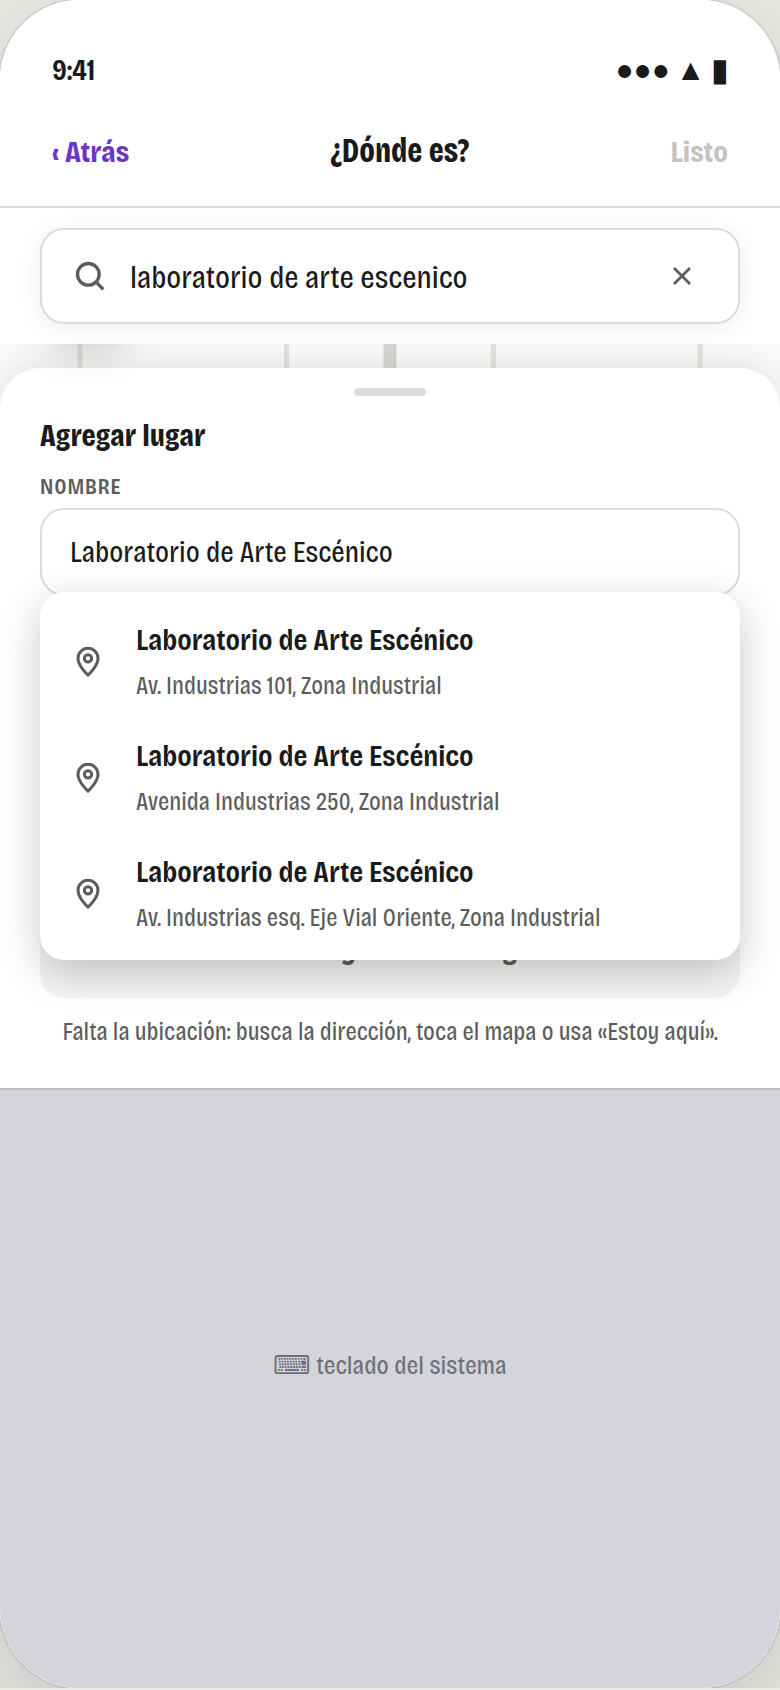
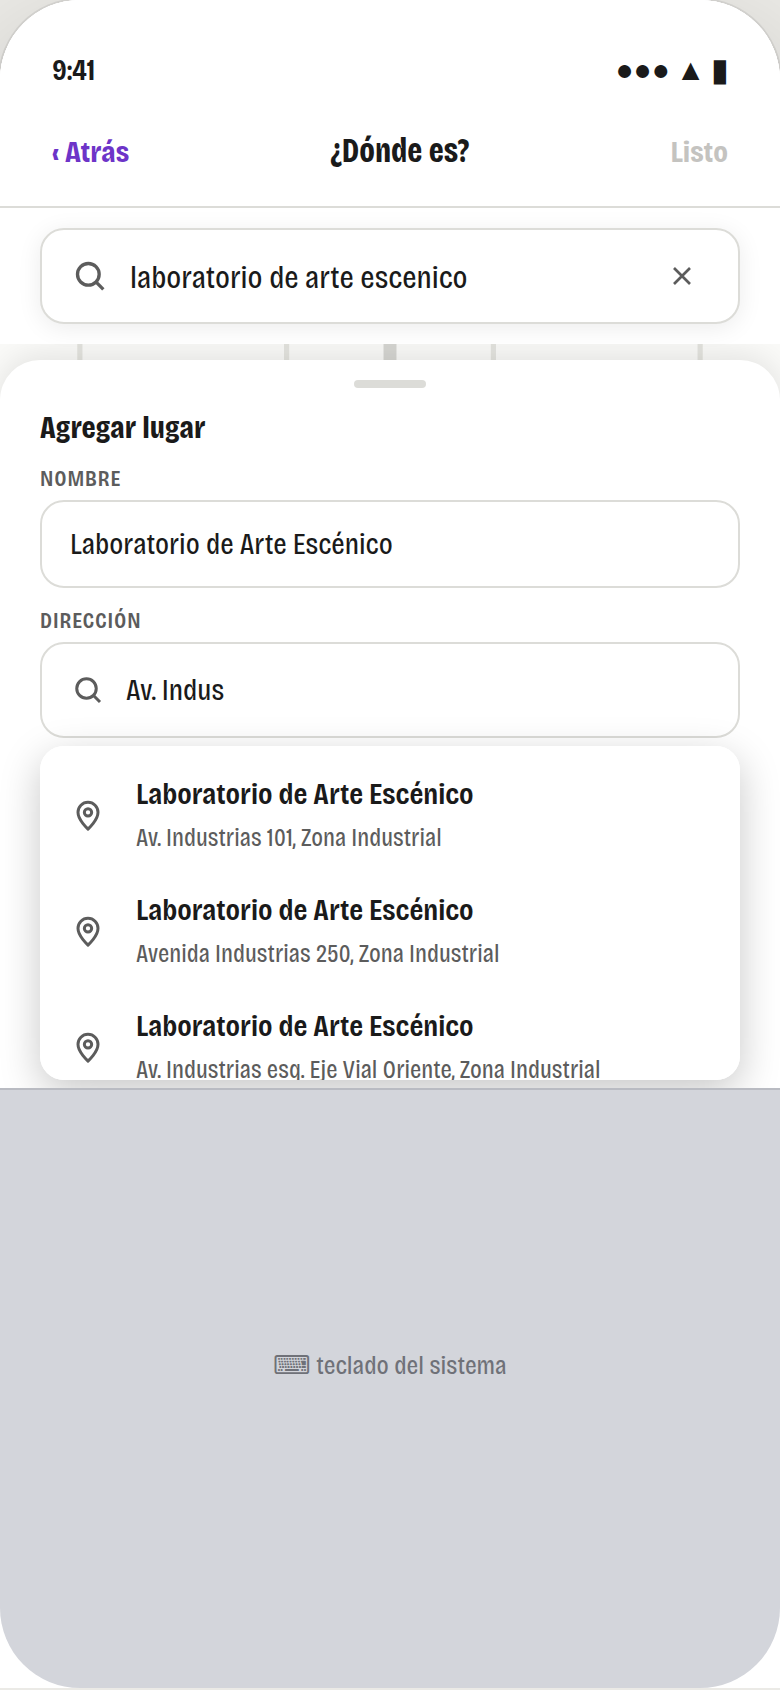
Corrección del gestor: sugerencias de dirección nunca encima del campo
En el estado (c) del prototipo, la lista de sugerencias de dirección abría hacia
arriba y tapaba el propio campo "Dirección" en uso -contra la regla dura del
founder (2026-09-24, MEMORIA_GESTOR): "si sugieres algo sea debajo del campo que
estoy usando". Corregido sin tocar la lógica de calcularPosicion: al abrir esas
sugerencias, la hoja "Agregar lugar" se expande y desplaza su contenido para que
el campo "Dirección" quede arriba del todo, dejando siempre sitio libre debajo
-la misma colocarLista, sin casos especiales, elige "abajo" con margen de sobra.
"Estoy aquí" se oculta mientras la hoja está así de estirada. Recaptura de
proto-03; los otros cuatro estados no cambiaron (mismos bytes).

Claude-Session: https://claude.ai/code/session_01XrJvzKysk1Y39vzpLGT9HG

diff --git a/docs/rediseno/prototipos/lugar-evento-agregar.html b/docs/rediseno/prototipos/lugar-evento-agregar.html
@@ -114,8 +114,15 @@
   /* La hoja "Agregar lugar", segunda versión (OL-182): a media pantalla, pegada abajo (sobre el teclado cuando lo
      hay), deja el mapa visible arriba con el pin -nunca tapa el campo de dirección ni "Estoy aquí" (segundo
      defecto reportado por el founder: "no me deja especificar la ubicación"). */
-  .hoja-agregar { position: absolute; left: 0; right: 0; bottom: 0; z-index: 12; display: none; flex-direction: column; padding: 10px 20px calc(20px + env(safe-area-inset-bottom, 0px)); border-radius: 20px 20px 0 0; background: var(--fondo); box-shadow: var(--sombra-panel); transition: bottom .12s ease; }
+  .hoja-agregar { position: absolute; left: 0; right: 0; bottom: 0; z-index: 12; display: none; flex-direction: column; padding: 10px 20px calc(20px + env(safe-area-inset-bottom, 0px)); border-radius: 20px 20px 0 0; background: var(--fondo); box-shadow: var(--sombra-panel); transition: bottom .12s ease, top .12s ease; }
   .hoja-agregar.visible { display: flex; }
+  /* Con "Dirección" enfocada y el teclado abierto (regla dura del founder, 2026-09-24: "las sugerencias van
+     DEBAJO del campo en uso, nunca encima"): la hoja se estira hacia arriba (tapa más mapa mientras se escribe) y
+     se hace desplazable por dentro; el scroll interno deja el campo "Dirección" arriba del todo -título y
+     "Nombre" salen por encima, fuera de la vista- para que SIEMPRE quede espacio debajo y la lista nunca tenga
+     que abrir hacia arriba sobre el propio campo. Se recupera (top:auto, la altura vuelve a su contenido) al
+     cerrarse las sugerencias. */
+  .hoja-agregar.expandida { top: 8px; overflow-y: auto; }
   .asa { align-self: center; width: 36px; height: 4px; margin-bottom: 10px; border-radius: 999px; background: var(--borde); }
   .hoja-agregar h3 { font-size: 16px; font-weight: 700; font-variation-settings: var(--ancho-titulo); margin-bottom: 10px; }
   .campo-hoja { display: block; margin-bottom: 10px; }
@@ -363,6 +370,7 @@ var hojaAgregar = document.getElementById("hojaAgregar");
 var nombreHoja = document.getElementById("nombreHoja");
 var direccionHoja = document.getElementById("direccionHoja");
 var listaDireccion = document.getElementById("listaDireccion");
+var campoDireccionWrap = document.getElementById("campoDireccionWrap");
 var privadoBtn = document.getElementById("privadoBtn");
 var btnGuardarHoja = document.getElementById("btnGuardarHoja");
 var ayudaGuardar = document.getElementById("ayudaGuardar");
@@ -417,10 +425,37 @@ function colocarLista(el, campoEl, pisoLocal) {
   el.style.maxHeight = Math.min(260, disponible) + "px";
 }
 
+/**
+ * Con "Dirección" enfocada Y sus sugerencias abiertas: la hoja se recoloca (`top` sube casi hasta el propio campo
+ * principal) y se hace desplazable por dentro, con el scroll puesto para que el campo "Dirección" quede arriba
+ * del todo -título y "Nombre" salen de la vista-. Corrección del gestor (revisión de OL-182, parte 1): la lista
+ * de sugerencias NUNCA debe abrir encima del campo que se está usando (MEMORIA_GESTOR.md, 2026-09-24, "si
+ * sugieres algo sea debajo del campo que estoy usando"); en vez de dejar que `colocarLista` decida hacia arriba
+ * cuando no hay sitio abajo, aquí se le DA sitio abajo -moviendo lo que sobra hacia arriba y fuera de la vista-,
+ * para que la propia lógica de siempre (mismo `colocarLista`, sin casos especiales) elija "abajo" con margen de
+ * sobra. Si aun así no entran los tres renglones, la lista muestra los que quepan y se desplaza por dentro
+ * (`overflow-y: auto`, ya lo tenía).
+ */
+function actualizarExpansionHoja() {
+  var expandir = estado.hoja && estado.listaDireccion;
+  hojaAgregar.classList.toggle("expandida", expandir);
+  if (expandir) {
+    hojaAgregar.scrollTop = Math.max(0, campoDireccionWrap.offsetTop - 10);
+  } else {
+    hojaAgregar.style.top = "";
+    hojaAgregar.scrollTop = 0;
+  }
+  // Mientras la hoja está así de estirada, "Estoy aquí" quedaría flotando sobre un campo de texto -no hay nada
+  // útil que tocar en el mapa en ese instante, con el mapa casi tapado-: se oculta y vuelve al cerrar la lista.
+  btnEstoyAqui.style.display = expandir ? "none" : "";
+}
+
 function posicionar() {
   var tecladoAltoPx = estado.teclado ? 300 : 0;
   barraAcciones.style.bottom = tecladoAltoPx + "px";
   hojaAgregar.style.bottom = tecladoAltoPx + "px";
+
+  actualizarExpansionHoja();
 
   // "Estoy aquí" (doc 43, segunda versión): encima de la barra si está visible, o encima de la hoja si está
   // abierta -nunca debajo de ninguna de las dos.
@@ -442,8 +477,8 @@ function posicionar() {
     colocarLista(listaFlotante, campoBuscar.closest(".campo-buscar"), pisoLista);
   }
 
-  // La lista de direcciones dentro de la hoja: anclada al campo "Dirección", nunca tapada por el teclado (mismo
-  // mecanismo: si no cabe abajo antes del teclado, abre hacia arriba, dentro de la propia hoja).
+  // La lista de direcciones dentro de la hoja: anclada al campo "Dirección". Con la hoja ya expandida y el
+  // scroll puesto arriba, el mismo `colocarLista` de siempre encuentra sitio de sobra abajo (sin caso especial).
   if (estado.listaDireccion && estado.hoja) {
     var mapaR2 = medir(mapaLleno);
     var pisoDir = mapaR2.height - tecladoAltoPx - 8;
